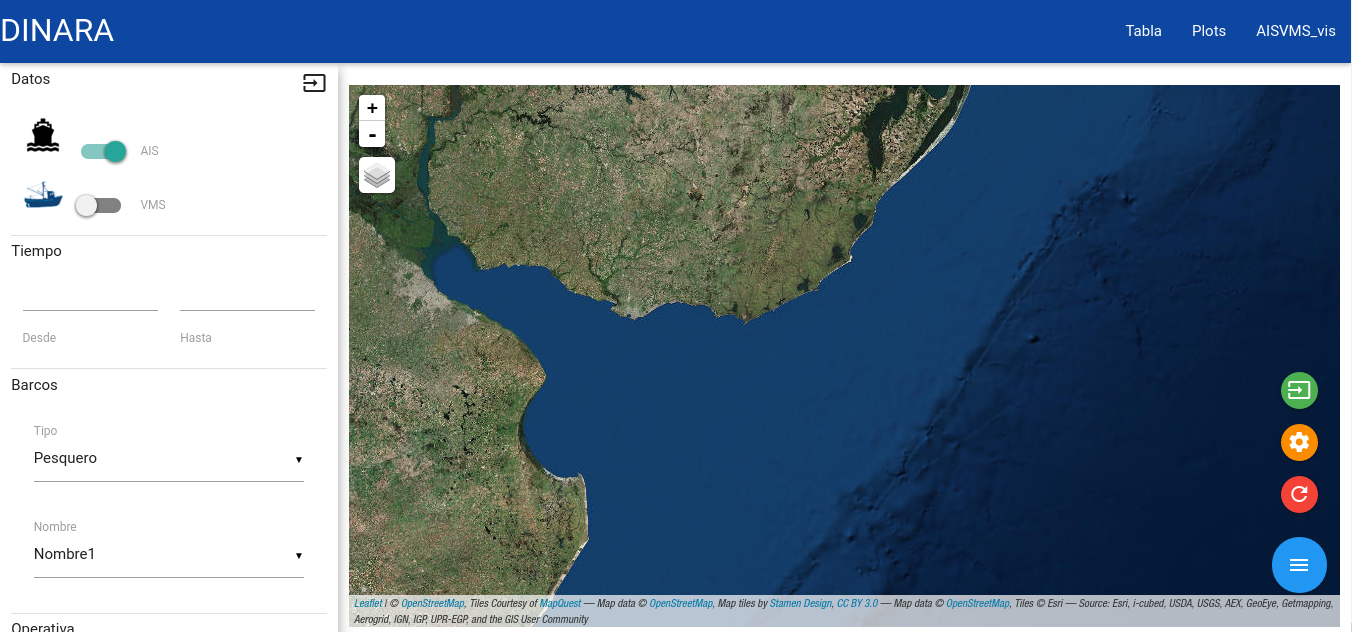
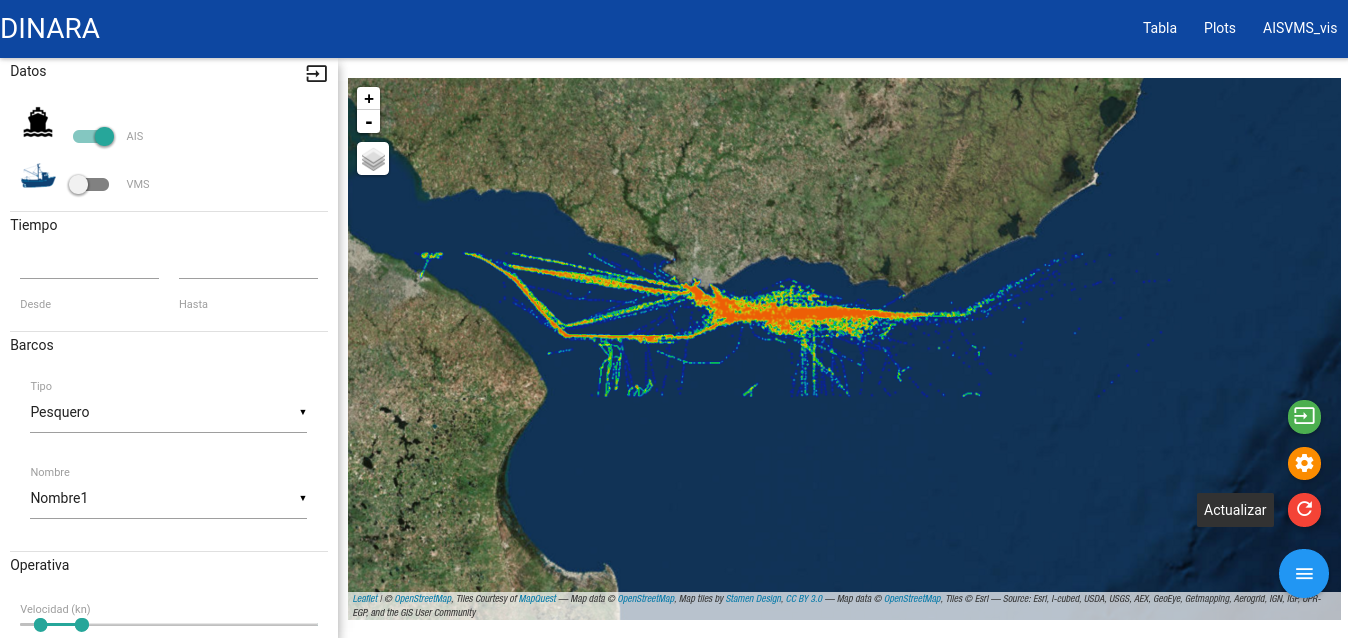
add screenshot

diff --git a/README.md b/README.md
@@ -26,6 +26,8 @@ install.packages('fasttime')
 
 ## Capturas de pantalla
 
+![image](https://github.com/guzmanlopez/AISVMS_vis/blob/master/screenshots/mainScreenshot.png)
+
 ## Futuros desarrollos
 
 *
